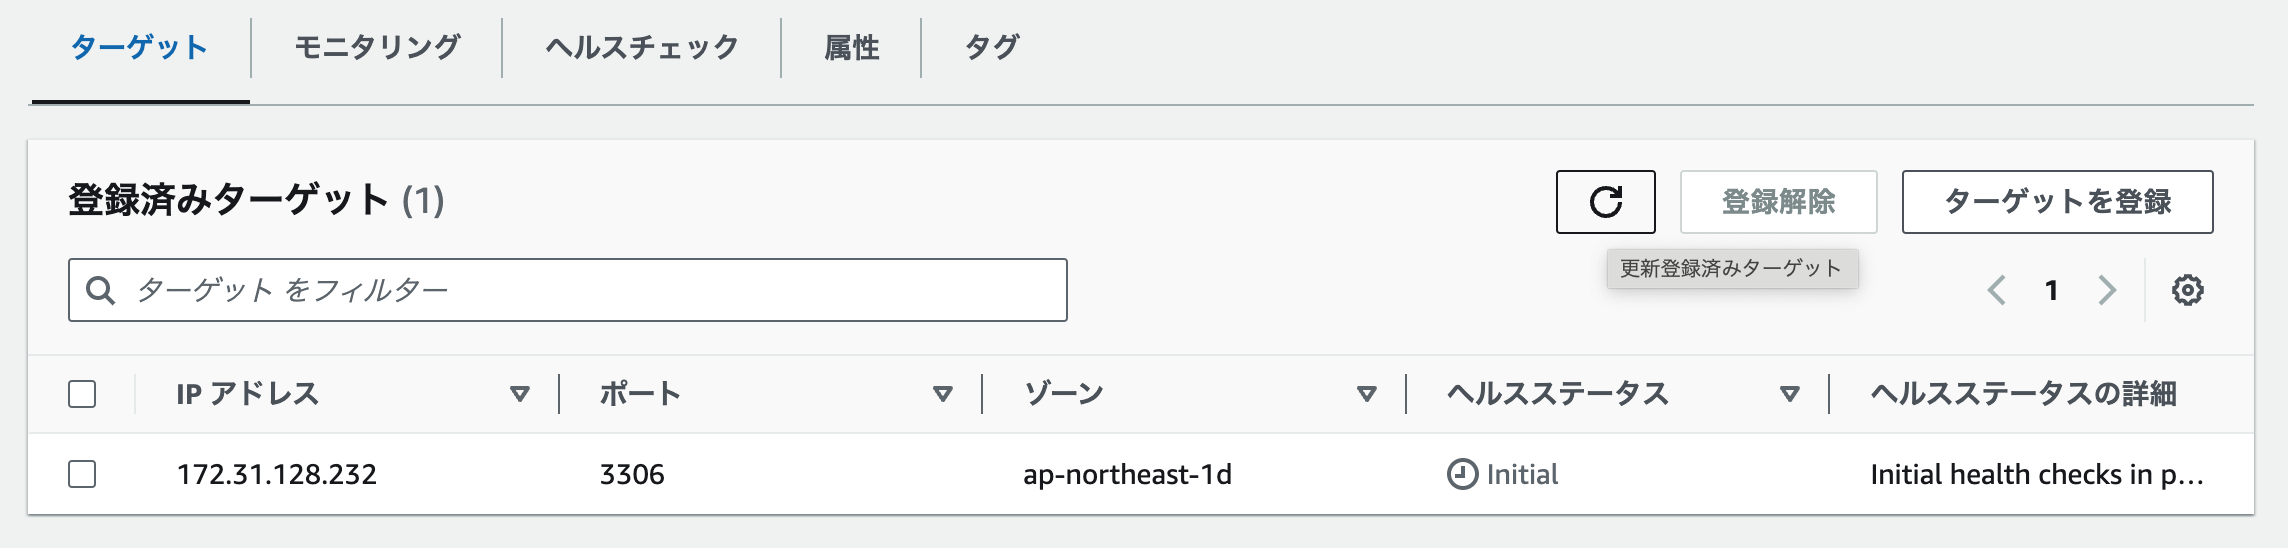
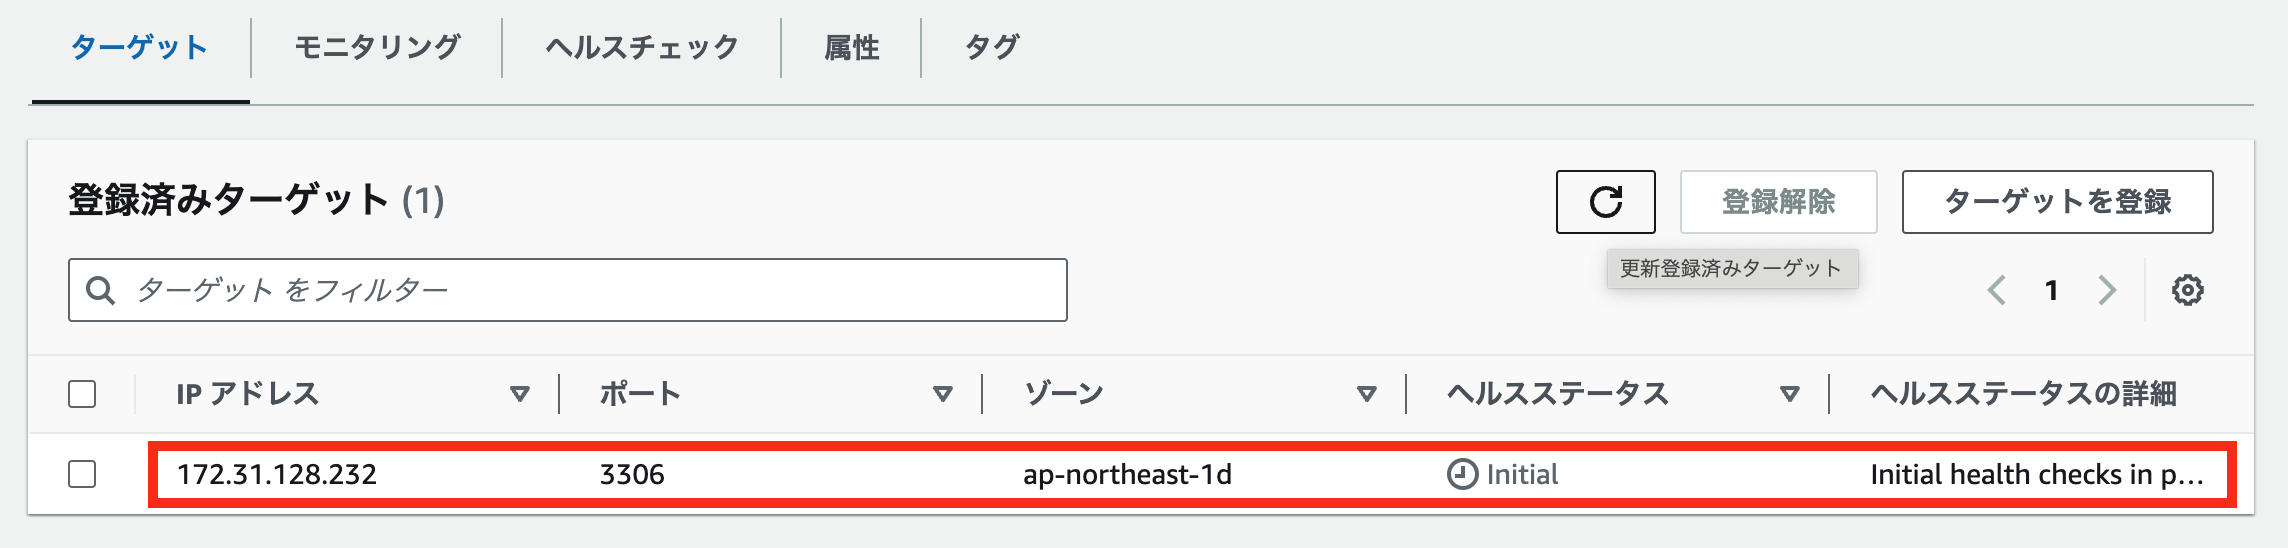
PrivateLink フェイルオーバー対応記事に画像とコードを追記

Changed region(s): [[0.0621, 0.8066, 0.993, 0.9307]]

diff --git a/articles/heatwave-on-aws-privatelink-failover.md b/articles/heatwave-on-aws-privatelink-failover.md
@@ -9,3 +9,229 @@ published: false
 [こちらの記事](https://zenn.dev/hmatsu47/articles/heatwave-on-aws-privatelink)の続きです。
 
 https://zenn.dev/hmatsu47/articles/heatwave-on-aws-privatelink
+
+![](/images/heatwave-on-aws-privatelink-failover/heatwave-on-aws-privatelink-failover_001.png)
+
+![](/images/heatwave-on-aws-privatelink-failover/heatwave-on-aws-privatelink-failover_002.png)
+
+```python:lambda_function.py
+import boto3
+import json
+import os
+
+client = boto3.client('elbv2')
+target_group_arn = os.getenv('TARGET_GROUP_ARN')
+ip_dict = json.loads(os.getenv('IP_DICT'))
+
+# インスタンスIDを取得
+def get_instance_id(event):
+    records = event.get('Records', [])
+    if len(records) == 0:
+        print('Recordsの要素が見つかりません')
+        return None
+    sns = records[0].get('Sns', '')
+    if sns == '':
+        print('Snsが見つかりません')
+        return None
+    message_json = sns.get('Message', '')
+    if message_json == '':
+        print('Messageが見つかりません')
+        return None
+    message = json.loads(message_json)
+    source_id = message.get('Source ID', '')
+    if source_id == '':
+        print('Source IDが見つかりません')
+        return None
+    event_message = message.get('Event Message', '')
+    if event_message == '':
+        print('Event Messageが見つかりません')
+        return None
+    index = event_message.rfind(': ')
+    if index == -1:
+        print('Instance IDが見つかりません')
+        return None
+    return event_message[index + 2:]
+
+# ターゲットとして設定されているIPアドレスを取得
+def get_target_ip_address(target_group_arn):
+    response = client.describe_target_health(TargetGroupArn=target_group_arn)
+    target_health_descriptions = response.get('TargetHealthDescriptions', [])
+    if len(target_health_descriptions) == 0:
+        print('ターゲットが見つかりません')
+        return None
+    target = target_health_descriptions[0].get('Target')
+    if target is None:
+        print('Targetが見つかりません')
+        return None
+    ip_address = target.get('Id')
+    if ip_address is None:
+        print('ターゲットとして設定されているIPアドレスが見つかりません')
+        return None
+    return ip_address
+
+# 指定IPアドレスをターゲットから登録解除
+def deregist_target_ip_address(ip_address):
+    response = client.deregister_targets(
+        TargetGroupArn=target_group_arn,
+        Targets=[
+            {
+                'Id': ip_address,
+                'Port': 3306
+            },
+        ]
+    )
+    return
+
+# 指定IPアドレスをターゲットとして登録
+def regist_target_ip_address(ip_address):
+    response = client.register_targets(
+        TargetGroupArn=target_group_arn,
+        Targets=[
+            {
+                'Id': ip_address,
+                'Port': 3306
+            },
+        ]
+    )
+    return
+
+def lambda_handler(event, context):
+    # インスタンスID取得
+    instance_id = get_instance_id(event)
+    if instance_id is None:
+        # インスタンスIDなし→処理打ち切り
+        return
+    # 変更後のIPアドレスを取得
+    new_ip_address = ip_dict.get(instance_id)
+    if new_ip_address is None:
+        print('ターゲット候補の中にフェイルオーバー先のインスタンスIDが見つかりません : (%s)' % (instance_id))
+        return
+
+    # 変更前のIPアドレスを取得
+    old_ip_address = get_target_ip_address(target_group_arn)
+    if old_ip_address is None:
+        return
+    # 変更前後でターゲットIPアドレスが変わるか？
+    if new_ip_address == old_ip_address:
+        print('ターゲットIPアドレスの変更はありません : (%s)' % (new_ip_address))
+        return
+    # 古いターゲットIPアドレスを登録解除
+    deregist_target_ip_address(old_ip_address)
+    print('古いターゲットIPアドレスを登録解除しました : (%s)' % (old_ip_address))
+    # 新しいターゲットIPアドレスを登録
+    regist_target_ip_address(new_ip_address)
+    print('新しいIPアドレスをターゲットに登録しました : (%s)' % (new_ip_address))
+```
+
+![](/images/heatwave-on-aws-privatelink-failover/heatwave-on-aws-privatelink-failover_011.png)
+
+- `IP_DICT` :
+  - `{"aurora-source-instance-1": "172.31.124.155", "aurora-source-instance-2": "172.31.128.232"}`
+- `TARGET_GROUP_ARN` :
+  - 前の記事で作成したターゲットグループの ARN】
+
+![](/images/heatwave-on-aws-privatelink-failover/heatwave-on-aws-privatelink-failover_012.png)
+
+![](/images/heatwave-on-aws-privatelink-failover/heatwave-on-aws-privatelink-failover_021.png)
+
+```json:ポリシー
+{
+	"Version": "2012-10-17",
+	"Statement": [
+		{
+			"Sid": "VisualEditor0",
+			"Effect": "Allow",
+			"Action": [
+				"elasticloadbalancing:DescribeLoadBalancers",
+				"elasticloadbalancing:DescribeTargetGroupAttributes",
+				"elasticloadbalancing:DescribeTargetHealth",
+				"elasticloadbalancing:DescribeTargetGroups"
+			],
+			"Resource": "*"
+		},
+		{
+			"Sid": "VisualEditor1",
+			"Effect": "Allow",
+			"Action": [
+				"elasticloadbalancing:RegisterTargets",
+				"elasticloadbalancing:DeregisterTargets"
+			],
+			"Resource": "arn:aws:elasticloadbalancing:ap-northeast-1:【アカウントID】:targetgroup/*/*"
+		}
+	]
+}
+```
+
+![](/images/heatwave-on-aws-privatelink-failover/heatwave-on-aws-privatelink-failover_022.png)
+
+![](/images/heatwave-on-aws-privatelink-failover/heatwave-on-aws-privatelink-failover_023.png)
+
+![](/images/heatwave-on-aws-privatelink-failover/heatwave-on-aws-privatelink-failover_031.png)
+
+![](/images/heatwave-on-aws-privatelink-failover/heatwave-on-aws-privatelink-failover_032.png)
+
+![](/images/heatwave-on-aws-privatelink-failover/heatwave-on-aws-privatelink-failover_041.png)
+
+```json:サブスクリプションフィルターポリシー
+{
+  "Event ID": [
+    {
+      "suffix": "RDS-EVENT-0072"
+    },
+    {
+      "suffix": "RDS-EVENT-0073"
+    }
+  ]
+}
+```
+
+![](/images/heatwave-on-aws-privatelink-failover/heatwave-on-aws-privatelink-failover_042.png)
+
+![](/images/heatwave-on-aws-privatelink-failover/heatwave-on-aws-privatelink-failover_051.png)
+
+![](/images/heatwave-on-aws-privatelink-failover/heatwave-on-aws-privatelink-failover_052.png)
+
+```sql:ソースDBでDBスキーマ・テーブル・データ行追加
+mysql> CREATE DATABASE hoge;
+Query OK, 1 row affected (0.00 sec)
+
+mysql> USE hoge;
+Database changed
+mysql> CREATE TABLE fuga (id int PRIMARY KEY AUTO_INCREMENT, val int);
+Query OK, 0 rows affected (0.02 sec)
+
+mysql> INSERT INTO fuga SET val = 100;
+Query OK, 1 row affected (0.01 sec)
+
+mysql> INSERT INTO fuga SET val = 150;
+Query OK, 1 row affected (0.00 sec)
+```
+
+![](/images/heatwave-on-aws-privatelink-failover/heatwave-on-aws-privatelink-failover_061.png)
+
+![](/images/heatwave-on-aws-privatelink-failover/heatwave-on-aws-privatelink-failover_071.png)
+
+![](/images/heatwave-on-aws-privatelink-failover/heatwave-on-aws-privatelink-failover_072.png)
+
+![](/images/heatwave-on-aws-privatelink-failover/heatwave-on-aws-privatelink-failover_073.png)
+
+![](/images/heatwave-on-aws-privatelink-failover/heatwave-on-aws-privatelink-failover_081.png)
+
+![](/images/heatwave-on-aws-privatelink-failover/heatwave-on-aws-privatelink-failover_091.png)
+
+![](/images/heatwave-on-aws-privatelink-failover/heatwave-on-aws-privatelink-failover_092.png)
+
+```sql:データ行追加
+mysql> INSERT INTO fuga SET val = 200;
+ERROR 2013 (HY000): Lost connection to MySQL server during query
+No connection. Trying to reconnect...
+Connection id:    55
+Current database: hoge
+
+Query OK, 1 row affected (0.04 sec)
+
+mysql> INSERT INTO fuga SET val = 250;
+Query OK, 1 row affected (0.01 sec)
+```
+
+![](/images/heatwave-on-aws-privatelink-failover/heatwave-on-aws-privatelink-failover_101.png)
